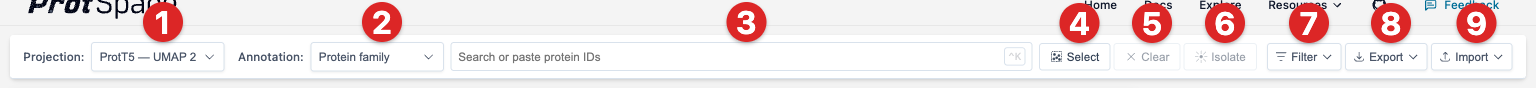
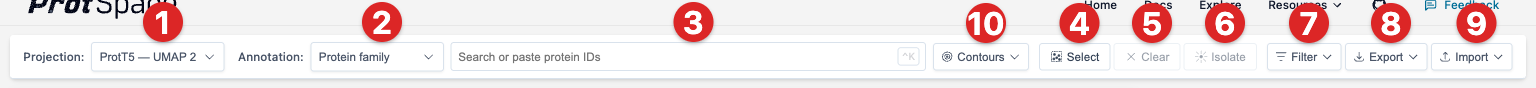
docs: add Contours screenshots
Add two captures to the Contours section: the menu with Always
selected, and the demo dataset with contours on. The annotated control
bar gains callout 10 for the new button.

Claude-Session: https://claude.ai/code/session_01FVFcgUcN8dQjj5WXcJHc5b

diff --git a/scripts/docs-screenshots/capture-static.spec.ts b/scripts/docs-screenshots/capture-static.spec.ts
@@ -29,14 +29,21 @@ const getPage = createSharedCapturePage(async (page) => {
  *
  * Cleans up: injected callout overlays (control-bar-annotated), the publish
  * modal (figure-editor tests), the structure viewer (structure-viewer.png),
- * the filter query (filter-query-builder.png), and any open shadow-DOM
- * dropdowns / modals (Escape closes them at the Lit/native level).
+ * the filter query (filter-query-builder.png), the Contours mode
+ * (*-contours.png), and any open shadow-DOM dropdowns / modals (Escape closes
+ * them at the Lit/native level).
  */
 async function resetStaticState(page: Page): Promise<void> {
   // Close any open dropdown / modal via Escape — handles control-bar-projection,
-  // -annotation, -export, query builder, and the publish modal's outer trap.
+  // -annotation, -export, -contours, query builder, and the publish modal's outer trap.
   await page.keyboard.press('Escape');
   await page.keyboard.press('Escape');
+
+  // The *-contours.png captures switch Contours on; later captures expect it off.
+  const densityLayer = await page
+    .locator('#myControlBar')
+    .evaluate((el) => (el as HTMLElement & { densityLayer?: string }).densityLayer);
+  if (densityLayer !== 'off') await setContoursMode(page, 'off');
 
   await page.evaluate(() => {
     // Annotated control bar appends red callout circles to document.body.
@@ -94,6 +101,33 @@ async function openFigureEditor(page: Page, timeout = 10_000): Promise<void> {
   );
   // Settle: rAF redraw + font readiness.
   await page.waitForTimeout(800);
+}
+
+/**
+ * Pick a Contours mode the way a user does: open the control bar's Contours
+ * menu and click the entry. Resolves once the plot has the new mode and has
+ * drawn a frame with it.
+ */
+async function setContoursMode(page: Page, mode: 'off' | 'auto' | 'on'): Promise<void> {
+  const bar = page.locator('#myControlBar');
+  await bar.locator('#density-layer-trigger').click();
+  await bar.locator(`.density-item[data-mode="${mode}"]`).click();
+  await page.waitForFunction(
+    (m) =>
+      (
+        document.querySelector('#myPlot') as
+          | (HTMLElement & { config?: { densityLayer?: string } })
+          | null
+      )?.config?.densityLayer === m,
+    mode,
+    { timeout: 5_000, polling: 100 },
+  );
+  await page.evaluate(
+    () =>
+      new Promise<void>((resolve) => {
+        requestAnimationFrame(() => requestAnimationFrame(() => resolve()));
+      }),
+  );
 }
 
 /**
@@ -784,5 +818,54 @@ test.describe('Control Bar Screenshots', () => {
     }
 
     console.log('📸 Captured: control-bar-export.png');
+  });
+
+  test('control-bar-contours.png - Contours menu with Always selected', async () => {
+    const page = getPage();
+    await setContoursMode(page, 'on');
+    const trigger = page.locator('#myControlBar').locator('#density-layer-trigger');
+    await expect(trigger).toHaveAttribute('aria-label', 'Contours: Always');
+
+    // Reopen the menu so it shows all three modes with Always checked.
+    await trigger.click();
+    const menu = page.locator('#myControlBar').locator('.density-menu');
+    await menu.waitFor({ state: 'visible', timeout: 5_000 });
+    await page.waitForTimeout(200);
+
+    // Encompass the trigger and the right-aligned menu hanging below it.
+    const triggerBox = await trigger.boundingBox();
+    const menuBox = await menu.boundingBox();
+    if (!triggerBox || !menuBox) throw new Error('Contours trigger or menu has no layout box');
+    const minX = Math.min(triggerBox.x, menuBox.x);
+    const minY = Math.min(triggerBox.y, menuBox.y);
+    const maxX = Math.max(triggerBox.x + triggerBox.width, menuBox.x + menuBox.width);
+    const maxY = Math.max(triggerBox.y + triggerBox.height, menuBox.y + menuBox.height);
+
+    await page.screenshot({
+      path: path.join(IMAGES_DIR, 'control-bar-contours.png'),
+      clip: {
+        x: Math.max(0, minX - 10),
+        y: Math.max(0, minY - 10),
+        width: maxX - minX + 20,
+        height: maxY - minY + 20,
+      },
+    });
+    console.log('📸 Captured: control-bar-contours.png');
+  });
+
+  test('scatterplot-contours.png - Scatterplot with Contours set to Always', async () => {
+    const page = getPage();
+    await setContoursMode(page, 'on');
+    await expect(page.locator('#myControlBar').locator('#density-layer-trigger')).toHaveAttribute(
+      'aria-label',
+      'Contours: Always',
+    );
+    // Let the contour pass settle before capturing the canvas.
+    await page.waitForTimeout(500);
+
+    await page.locator('#myPlot').screenshot({
+      path: path.join(IMAGES_DIR, 'scatterplot-contours.png'),
+    });
+    console.log('📸 Captured: scatterplot-contours.png');
   });
 });

diff --git a/docs/explore/control-bar.md b/docs/explore/control-bar.md
@@ -259,6 +259,8 @@ can see where each category concentrates even where its points pile on top of ea
 Auto or Always is selected, the button is highlighted and names the mode: **Contours: Auto** or
 **Contours: Always**.
 
+![Contours menu open with Always selected, listing Off, Auto and Always](./images/control-bar-contours.png)
+
 | Mode              | What it does                                                        |
 | ----------------- | ------------------------------------------------------------------- |
 | **Off** (default) | No contours                                                         |
@@ -268,6 +270,8 @@ Auto or Always is selected, the button is highlighted and names the mode: **Cont
 Auto and Always draw the same rings and fill; only their strength differs. Auto sets it from how
 many points are visible, how large the plot is and how far you have zoomed in. It does not check
 whether points actually overlap.
+
+![Demo dataset with Contours set to Always: each protein family's cluster is outlined by rings in its legend colour](./images/scatterplot-contours.png)
 
 How to read them:
 
